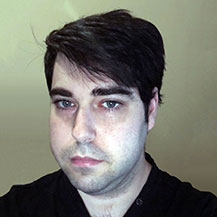
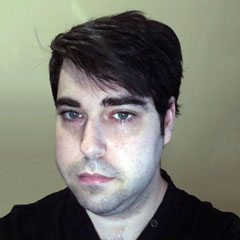
Fixed image proportions

diff --git a/index.html b/index.html
@@ -162,7 +162,7 @@ layout: default
     <div role="tabpanel" class="tab-pane active" id="home">
         <div class="row">
             <div class="col-xs-12 col-md-5">
-                <img src="img/face.jpg" style="width:217px;height:240px;border:2px solid black;box-shadow: rgba(0, 0, 0, 0.2) 3px 3px 6px;" />
+                <img src="img/face.jpg" style="width:240px;height:240px;border:2px solid black;box-shadow: rgba(0, 0, 0, 0.2) 3px 3px 6px;" />
             </div>
             <div class="col-xs-12 col-md-7">
 
